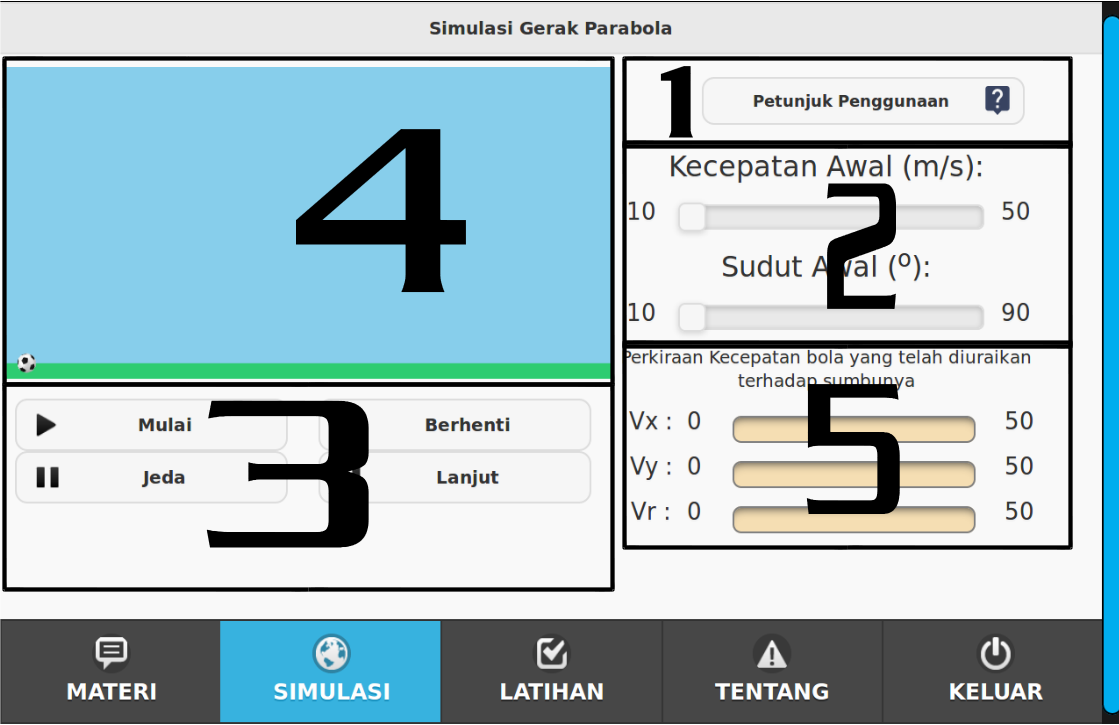
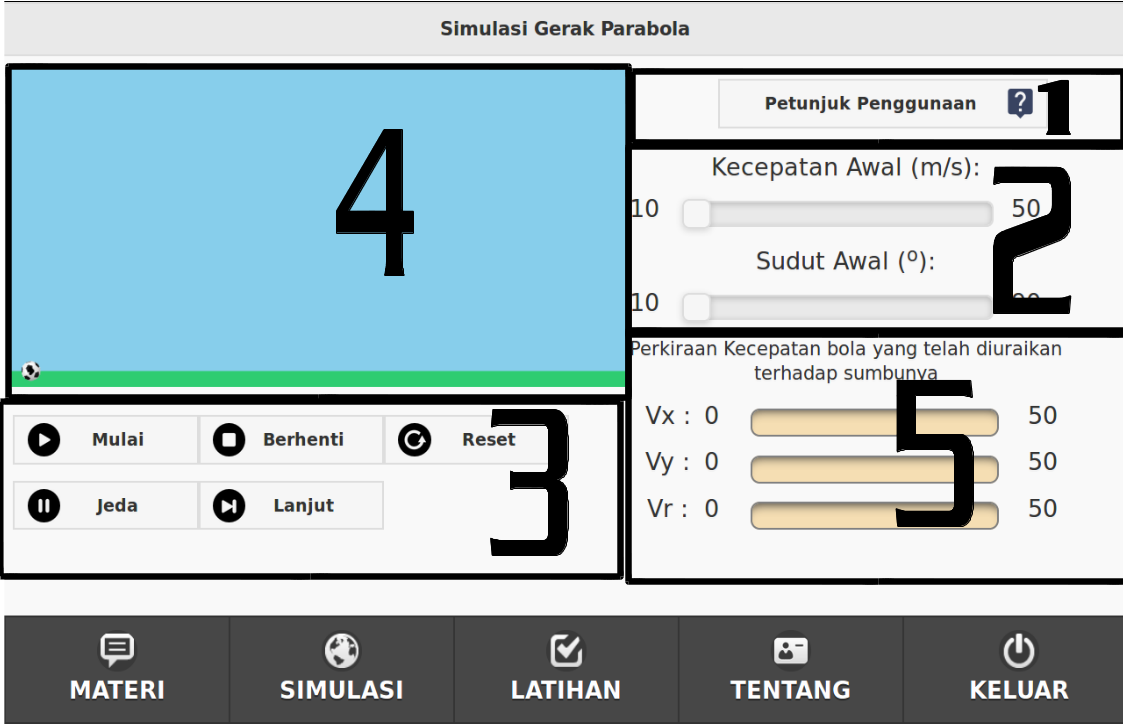
com

Changed region(s): [[0.0, 0.0, 1.0, 1.0], [0.2431, 0.1517, 0.4254, 0.4248], [0.0912, 0.6676, 0.1215, 0.7283]]

diff --git a/index.html b/index.html
@@ -114,6 +114,7 @@ MathJax.Hub.Register.StartupHook("End",function () {$.mobile.changePage("#inter"
 		 <p class="top">Perhatikan video dibawah ini</p>
 			<video height="200" controls class="vid">
 				<source src="mg.mp4" type="video/mp4"> 
+				<track src="mg.vtt" kind="subtitles"></track>
 			</video>
 	
 	
@@ -369,18 +370,19 @@ MathJax.Hub.Register.StartupHook("End",function () {$.mobile.changePage("#inter"
 				</div>
 				<ol>
 					<li>Petunjuk penggunaan : digunakan untuk menampilkan halaman bantuan ini</li>
-					<li>Kontrol variabel simulasi : digunakan untuk kecapatan dan sudut tembak pada simulasi</li>
-					<li>Tombol kontrol : terdapat empat tombol, masing-masing berfungsi sebagai berikut:
+					<li>Kontrol variabel simulasi : digunakan untuk kecepatan dan sudut tembak pada simulasi</li>
+					<li>Tombol kontrol : terdapat lima tombol, masing-masing berfungsi sebagai berikut:
 							<ul>
 								<li>Mulai : Digunakan untuk memulai simulasi</li>							
 								<li>Jeda : Digunakan untuk menjeda simulasi</li>							
 								<li>Lanjutkan : Digunakan untuk melanjutkan simulasi yang sebelumnya dijeda</li>							
 								<li>Berhenti : Digunakan untuk memberhentikan simulasi dan reset posisi semula</li>							
+								<li>Reset : Digunakan untuk set ulang pada kondisi semula dan membersihkan lintasan</li>							
 							</ul></li>
 					<li>Layar simulasi : merupakan hasil dari "kontrol variabel simulasi" yang telah di atur. </li>
 					<li>Hasil kecepatan : merupakan perkiraan kecepatan yang terdapat pada simulasi dan diuraikan terhadap sumbunya. </li>
 				</ol>
-				<a class="ui-btn ui-icon-yes ui-btn-icon-left" onclick="toolop()" data-rel="back">Saya mengerti petunjuk penggunaan simulasi</a>
+				<a class="ui-btn ui-icon-yes ui-btn-icon-left" onclick="toolop()" href="#simulasi">Saya mengerti petunjuk penggunaan simulasi</a>
 			</div> 
     </div>
    
@@ -574,7 +576,7 @@ jeda=0;
 vx=0;
 vy=0;
 	
-var materpanel=1;
+var helpsim=0;
 
 var va=[];
 var suda=[];

diff --git a/event.js b/event.js
@@ -6,6 +6,12 @@ $(document).on("pagebeforeshow", "#howtouse", function(event) {
   				$(".ui-footer").toolbar("hide");
 });
 
+$(document).on("pagebeforeshow", "#simulasi", function(event) {		
+			if (helpsim==0) {
+  				window.location.replace('#petunjuk');
+  				helpsim=1;
+			}  				
+});
 
 $(document).on("swiperight", function(event) {
 	$("#menyu").panel("open");
@@ -14,6 +20,11 @@ $(document).on("swiperight", function(event) {
 $(document).on("pagebeforeshow", "#petunjuk", function(event) {		
   				$(".ui-footer").toolbar("hide");
 });
+
+$(document).on("pagehide", "#petunjuk", function(event) {		
+  				$(".ui-footer").toolbar("show");
+});
+
 
 $(document).on("pagebeforeshow", "#simulasi", function(event) {		
   				sh=setInterval(update,1000/30);
@@ -53,7 +64,6 @@ $(document).on("pagebeforehide","#sol3", function (event) {
 $(document).on("pagebeforehide","#sol4", function (event) {
 			$(".ui-footer").toolbar("show");
 })
-
 $(document).on("pagebeforehide","#sol5", function (event) {
 			$(".ui-footer").toolbar("show");
 })

diff --git a/css/index.css b/css/index.css
@@ -228,6 +228,7 @@ canvas{
 #simulasi .control{
     font-size: 10px;
     margin-left: 5px;
+    width: 90%;
    
 }
 #simulasi label{
